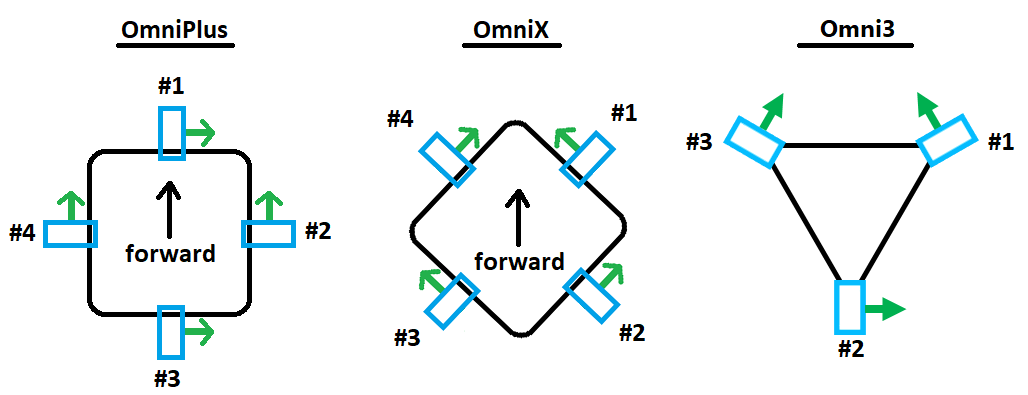
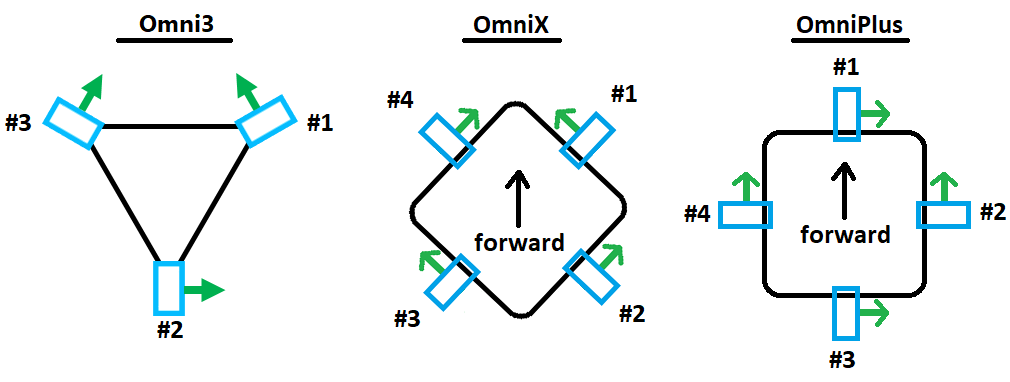
Rover: update omni motor order pic and info on motor-and-servo pages

diff --git a/rover/source/docs/rover-motor-and-servo-configuration.rst b/rover/source/docs/rover-motor-and-servo-configuration.rst
@@ -37,6 +37,17 @@ For "Skid steering" vehicles (like R2D2) these parameters values will need to be
 
    In Rover-3.1 (and earlier), skid steering output was enabled by setting the SKID_STEER_OUT parameter to "1".
 
+Omni Vehicles
+-------------
+
+For Omni vehicles (that can move left-to-right without changing heading) these parameter values will need to be set:
+
+- :ref:`FRAME_TYPE <FRAME_TYPE>` = 1 (Omni3), 2 (OmniX) or 3 (OmniPlus)
+- :ref:`SERVO1_FUNCTION <SERVO1_FUNCTION>` = 33 (motor1)
+- :ref:`SERVO2_FUNCTION <SERVO2_FUNCTION>` = 34 (motor2)
+- :ref:`SERVO3_FUNCTION <SERVO3_FUNCTION>` = 35 (motor3)
+- :ref:`SERVO4_FUNCTION <SERVO4_FUNCTION>` = 36 (motor4)
+
 Motor Driver Types
 ------------------
 

diff --git a/rover/source/docs/rover-motor-and-servo-connections.rst b/rover/source/docs/rover-motor-and-servo-connections.rst
@@ -41,6 +41,14 @@ Omni vehicles can move laterally (i.e. left and right) without changing their he
 .. image:: ../images/omni-motor-order.png
     :target: ../_images/omni-motor-order.png
 
+For this setup these parameters values will need to be set
+
+- :ref:`FRAME_TYPE <FRAME_TYPE>` = 1 (Omni3), 2 (OmniX) or 3 (OmniPlus)
+- :ref:`SERVO1_FUNCTION <SERVO1_FUNCTION>` = 33 (motor1)
+- :ref:`SERVO2_FUNCTION <SERVO2_FUNCTION>` = 34 (motor2)
+- :ref:`SERVO3_FUNCTION <SERVO3_FUNCTION>` = 35 (motor3)
+- :ref:`SERVO4_FUNCTION <SERVO4_FUNCTION>` = 36 (motor4)
+
 Wheel Encoders
 --------------
 
